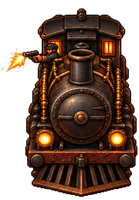
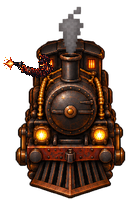
Совмести кадры выстрела с корпусом бега

diff --git a/art_src/train_shot_v2/prepare.py b/art_src/train_shot_v2/prepare.py
@@ -1,0 +1,80 @@
+"""Composite one generated overlay onto the unchanged run frame; mirror only the overlay."""
+import hashlib
+import json
+import re
+from pathlib import Path
+
+from PIL import Image, ImageDraw, ImageOps
+
+ROOT = Path(__file__).resolve().parents[2]
+HERE = Path(__file__).resolve().parent
+TRAIN = ROOT / 'assets/px/train'
+PALETTE = {tuple(bytes.fromhex(h)) for h in re.findall(
+    r'\b[0-9a-f]{6}\b', (ROOT / 'docs/STYLE.md').read_text(encoding='utf-8'))}
+
+
+def save_json(name, obj):
+    (HERE / name).write_text(json.dumps(obj, indent=2, ensure_ascii=False) + '\n', encoding='utf-8')
+
+
+def main():
+    base_path = TRAIN / 'loco_run_0.png'
+    base = Image.open(base_path).convert('RGBA')
+    source = Image.open(HERE / 'generated_overlay.png').convert('RGBA')
+    source.putalpha(source.getchannel('A').point(lambda a: 255 if a >= 128 else 0))
+    source = source.crop(source.getbbox()).resize((51, 24), Image.Resampling.NEAREST)
+    pixels = []
+    for r, g, b, a in source.get_flattened_data():
+        if not a:
+            pixels.append((0, 0, 0, 0))
+        else:
+            color = min(sorted(PALETTE), key=lambda p: (p[0]-r)**2 + (p[1]-g)**2 + (p[2]-b)**2)
+            pixels.append((*color, 255))
+    source.putdata(pixels)
+    overlay = Image.new('RGBA', base.size)
+    overlay.paste(source, (3, 54))
+    originals = list(base.get_flattened_data())
+    results, frames, assets = {}, [base], []
+    for direction, layer in [('left', overlay), ('right', ImageOps.mirror(overlay))]:
+        im = base.copy()
+        im.paste(layer, (0, 0), layer.getchannel('A'))
+        name = f'loco_shot_{direction}.png'
+        path = TRAIN / name
+        im.save(path)
+        layer.save(HERE / f'overlay_{direction}.png')
+        mask = layer.getchannel('A')
+        mask.save(HERE / f'mask_{direction}.png')
+        data, layer_data = list(im.get_flattened_data()), list(layer.get_flattened_data())
+        changed = [i for i, (a, b) in enumerate(zip(originals, data)) if a != b]
+        outside = sum(not layer_data[i][3] for i in changed)
+        off = {p[:3] for p in data if p[3]} - PALETTE
+        layer_off = {p[:3] for p in layer_data if p[3]} - PALETTE
+        assert im.size == (139, 200) and outside == 0 and not layer_off
+        assert set(layer.getchannel('A').get_flattened_data()) == {0, 255}
+        assert all(54 <= i // 139 < 78 for i in changed)
+        # Geometry anchors of the baseline remain byte-for-byte unchanged.
+        assert im.crop((0, 41, 139, 54)).tobytes() == base.crop((0, 41, 139, 54)).tobytes()
+        assert im.crop((0, 78, 139, 200)).tobytes() == base.crop((0, 78, 139, 200)).tobytes()
+        result = dict(size=list(im.size), changed_pixels=len(changed), changed_outside_overlay=outside,
+                      changed_bbox=mask.getbbox(), off_palette_colors=len(off), overlay_off_palette_colors=len(layer_off),
+                      inherited_soft_alpha_pixels=sum(0 < p[3] < 255 for p in data),
+                      first_row_25_percent_alpha128=next(y for y in range(200) if sum(data[y*139+x][3] >= 128 for x in range(139)) >= 139/4),
+                      opaque_bottom_threshold_128=max(i // 139 for i, p in enumerate(data) if p[3] >= 128),
+                      sha256=hashlib.sha256(path.read_bytes()).hexdigest())
+        results[name] = result
+        frames.append(im)
+        assets.append(dict(file=path.relative_to(ROOT).as_posix(), size=[139, 200], frames=1,
+                           pivot=[69.5, 198], purpose=f'{direction} shot; exact run_0 with driver overlay'))
+    save_json('validation.json', dict(base_sha256=hashlib.sha256(base_path.read_bytes()).hexdigest(), frames=results))
+    save_json('train_shot_manifest_v2.json', dict(assets=assets, exception='Base RGBA preserved exactly by user choice; palette and binary alpha apply only to overlay.'))
+    board = Image.new('RGB', (3 * 159, 224), '#17121b')
+    draw = ImageDraw.Draw(board)
+    for i, (label, im) in enumerate(zip(['RUN 0', 'SHOT LEFT', 'SHOT RIGHT'], frames)):
+        draw.text((i * 159 + 10, 4), label, fill='#d0d8d4')
+        board.paste(im, (i * 159 + 10, 20), im)
+    board.resize((board.width * 3, board.height * 3), Image.Resampling.NEAREST).save(HERE / 'compare.png')
+    print(json.dumps(results, indent=2))
+
+
+if __name__ == '__main__':
+    main()

diff --git a/art_src/train_shot_v2/README.md b/art_src/train_shot_v2/README.md
@@ -1,0 +1,30 @@
+# Выстрел поверх бега v2
+
+Отличается от loco_run_0: 522 пикселя слева, 522 справа; цветов вне STYLE: 10041/10027 в полных кадрах, 0/0 в новом слое.
+
+Пользователь выбрал точное сохранение исходного RGBA корпуса вместо полной нормализации:
+сам `loco_run_0.png` содержит 10260 цветов вне STYLE и 13922 пикселя с мягкой альфой.
+Поэтому требования палитры и альфы 0/255 применены только к новому слою.
+Вне непрозрачной маски машиниста, руки, револьвера и вспышки различий **0** в обоих кадрах.
+Сохраняется даже дым исходника. Корпус не сдвигался, не масштабировался, не зеркалился.
+
+Оба холста 139×200. Верх корпуса по порогу 25% ширины и alpha >=128 — y=41,
+нижний ряд по alpha >=128 — y=197. Слабые края исходника до y=199 сохранены,
+как и все остальные пиксели за маской, согласно выбранному исключению.
+Нумерация от нуля. Всё изменённое находится в y=54…77; крыша и ходовая неизменны.
+
+Одна генерация встроенного image_gen: `generated_overlay.png`, запрос в
+`train_shot_prompts_v2.json`. Pillow подготовил слой 51×24 на точной палитре,
+альфа 0/255; он расположен в (3,54). Справа зеркалится только слой на холсте 139×200.
+`overlay_*.png` и `mask_*.png` позволяют отдельно проверить все изменения.
+Готовые кадры записаны в `assets/px/train/loco_shot_left.png` и `loco_shot_right.png`.
+Манифест содержит размеры, назначение и pivot [69.5,198]; это описание пакета, не runtime-реестр.
+
+Воспроизведение: `python art_src/train_shot_v2/prepare.py` — код 0.
+`validation.json` содержит точные сравнения RGBA и SHA-256 исходника и результатов.
+`compare.png` — бег и оба выстрела на одной базовой линии, ×3 nearest; просмотрен визуально.
+В игровых PNG текста нет. Новые зависимости не добавлялись.
+
+`node tools/check.mjs --tests` — код 0, стена 10,596 с; 207 тестов, 0 ошибок.
+Код, остальные игровые ассеты и существующие art_src не менялись.
+Живой игровой прогон не выполнялся; совпадение корпуса доказано сравнением всех RGBA-пикселей.
